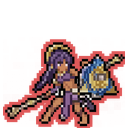
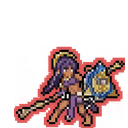
Center knights on the character's body axis, not the bounding box
The figure holds a staff and a large shield that extend sideways, so
bbox-centering left the warrior visibly off to one side with a prop filling the
rest of the tile. Re-anchor on the head/torso column (centroid of the top band)
so the character sits dead-center, letting the staff and shield extend toward
the edges; scale to fit the full silhouette. Still ~2x the original on-board
size. README placement guidance updated to describe body-axis centering.

diff --git a/public/assets/sprites.js b/public/assets/sprites.js
@@ -213,8 +213,8 @@
   // See public/assets/units/README.md.
   const IMG = {
     knight: {
-      A: "/assets/units/knight_a.png?v=4",
-      B: "/assets/units/knight_b.png?v=4",
+      A: "/assets/units/knight_a.png?v=5",
+      B: "/assets/units/knight_b.png?v=5",
     },
   };
 

diff --git a/public/assets/units/README.md b/public/assets/units/README.md
@@ -9,17 +9,19 @@ fallback sprites in `public/assets/sprites.js` (the `IMG` map).
 | ------------- | -------------------------------------------------------- |
 | Size          | **128 × 128 px** (square, to match the square board cells) |
 | Background    | Fully transparent (no checkerboard / matte)              |
-| Placement     | Figure **bottom-anchored, fills the full width** (minimal side margin) |
+| Placement     | **Centered on the character's body axis** (head/torso), bottom-anchored |
 | Style         | Pixel art; rendered with `image-rendering: pixelated`    |
 | Fit at render | `background-size: contain`, `background-position: center bottom` |
 
-The fixed square canvas keeps every unit at a consistent visual scale. Because
-the renderer contain-fits the whole canvas into the sprite box, empty canvas
-space shrinks the figure — so the figure should **fill the canvas width** and
-sit on the bottom edge, leaving only a thin rim margin. (A wide, short figure
-will still leave vertical headroom; that is expected.) On the board the sprite
-box is larger than a cell (`.sprite` in `replay.css`), so figures stand on the
-tile and overflow upward, like a tactics-RPG.
+The fixed square canvas keeps every unit at a consistent visual scale. Center
+the figure on the **character's body**, not its bounding box: held weapons,
+shields, and capes extend asymmetrically, so a bbox-centered figure reads as
+off-center (the body sits to one side while a prop fills the other). Anchor on
+the head/torso column, let props extend toward the edges, and scale so the whole
+silhouette fits within the canvas (a wide action pose will leave vertical
+headroom — that is expected). On the board the sprite box is larger than a cell
+(`.sprite` in `replay.css`), so figures stand on the tile and overflow upward,
+like a tactics-RPG.
 
 ## Per-team variants
 
